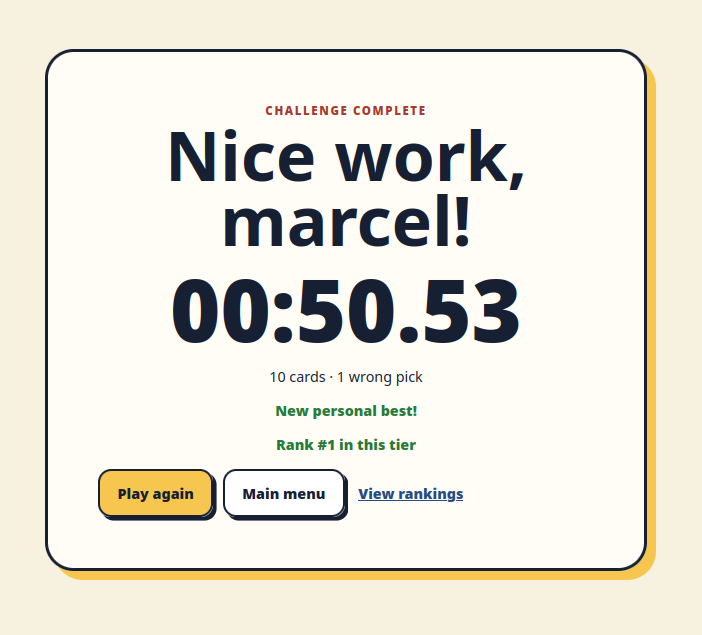
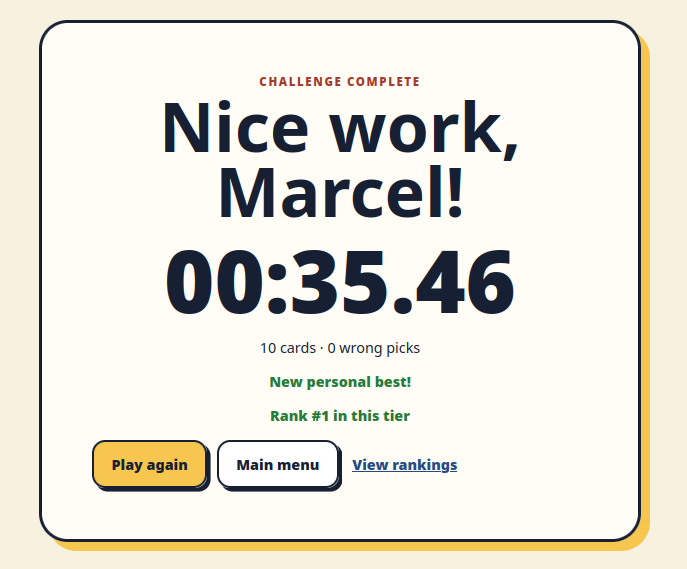
docs: updated game manual

Changed region(s): [[0.0306, 0.0299, 0.9476, 0.9859], [0.1223, 0.4183, 0.7642, 0.8664], [0.214, 0.1195, 0.7642, 0.3884]]

diff --git a/li_post.md b/li_post.md
@@ -1,35 +1,23 @@
-I built 𝗥𝗲𝗰𝗼𝗴𝗻𝗶𝘇𝗲𝗿 after playing a symbol-matching game with my children.
+𝐓𝐡𝐞 𝐟𝐢𝐫𝐬𝐭 𝐠𝐚𝐦𝐞 𝐦𝐲 𝐤𝐢𝐝𝐬 𝐚𝐩𝐩𝐫𝐨𝐯𝐞𝐝
 
-The rule takes ten seconds to explain:
+I like good turn-based offline games. Recently, the kids brought home one that I won't name here because my GitHub Pages–backed browser game is a shameless copy.
 
-𝘛𝘸𝘰 𝘤𝘢𝘳𝘥𝘴. 𝘌𝘪𝘨𝘩𝘵 𝘴𝘺𝘮𝘣𝘰𝘭𝘴 𝘦𝘢𝘤𝘩. 𝘌𝘹𝘢𝘤𝘵𝘭𝘺 𝘰𝘯𝘦 𝘮𝘢𝘵𝘤𝘩.
+If you want to play it (free and safe): https://marcelpetrick.github.io/recognizer/
+
+𝗧𝗵𝗲 𝗿𝘂𝗹𝗲𝘀 𝘁𝗮𝗸𝗲 𝘁𝗲𝗻 𝘀𝗲𝗰𝗼𝗻𝗱𝘀 𝘁𝗼 𝗲𝘅𝗽𝗹𝗮𝗶𝗻: 𝘛𝘸𝘰 𝘤𝘢𝘳𝘥𝘴. 𝘌𝘪𝘨𝘩𝘵 𝘴𝘺𝘮𝘣𝘰𝘭𝘴 𝘦𝘢𝘤𝘩. 𝘌𝘹𝘢𝘤𝘵𝘭𝘺 𝘰𝘯𝘦 𝘮𝘢𝘵𝘤𝘩. 𝗙𝗶𝗻𝗱 𝘁𝗵𝗲 𝗺𝗮𝘁𝗰𝗵 𝗳𝗮𝘀𝘁𝗲𝗿 𝘁𝗵𝗮𝗻 𝘆𝗼𝘂𝗿 𝗺𝗮𝘁𝗲𝘀.
+
+It is super simple, but pattern matching requires concentration, and you have to be quick. 𝗜𝘁'𝘀 𝗴𝗿𝗲𝗮𝘁 𝗳𝘂𝗻 𝗲𝘃𝗲𝗻 𝗮𝘀 𝗮 𝘀𝗶𝗻𝗴𝗹𝗲 𝗽𝗹𝗮𝘆𝗲𝗿 with a local high-score list.
 
 Building it raised three useful questions:
+* 𝗛𝗼𝘄 𝗱𝗼 𝘆𝗼𝘂 𝗴𝘂𝗮𝗿𝗮𝗻𝘁𝗲𝗲 that rule across all 𝟏,𝟓𝟗𝟔 possible card pairs?
+* 𝗛𝗼𝘄 𝗱𝗼 𝘆𝗼𝘂 𝘁𝘂𝗿𝗻 a shared game into a good single-player challenge?
+* 𝗛𝗼𝘄 𝗺𝘂𝗰𝗵 𝗶𝗻𝗳𝗿𝗮𝘀𝘁𝗿𝘂𝗰𝘁𝘂𝗿𝗲 does a small browser game actually need?
 
-• How do you guarantee that rule across all 1,596 possible card pairs?
+The mathematical part uses a finite projective plane. 𝗧𝗵𝗲 𝘁𝗲𝘀𝘁 𝘀𝘂𝗶𝘁𝗲 𝘃𝗲𝗿𝗶𝗳𝗶𝗲𝘀 𝗲𝘃𝗲𝗿𝘆 𝗽𝗼𝘀𝘀𝗶𝗯𝗹𝗲 𝗰𝗮𝗿𝗱 𝗽𝗮𝗶𝗿.
 
-• How do you turn a shared game into a good single-player challenge?
+The product stays deliberately small: 10, 20, or 50 cards, a timer, and local high scores. 𝘕𝘰 𝘢𝘤𝘤𝘰𝘶𝘯𝘵𝘴. 𝘕𝘰 𝘨𝘭𝘰𝘣𝘢𝘭 𝘳𝘢𝘯𝘬𝘪𝘯𝘨𝘴. 𝘕𝘰 𝘣𝘢𝘤𝘬𝘦𝘯𝘥.
 
-• How much infrastructure does a small browser game actually need?
+𝗔 𝘀𝗶𝗱𝗲 𝗻𝗼𝘁𝗲 𝗳𝗼𝗿 𝘁𝗵𝗼𝘀𝗲 𝗶𝗻𝘁𝗲𝗿𝗲𝘀𝘁𝗲𝗱 𝗶𝗻 𝘀𝗼𝗳𝘁𝘄𝗮𝗿𝗲 𝗱𝗲𝗹𝗶𝘃𝗲𝗿𝘆
+I also used the project as a compact, end-to-end SDLC example: written requirements, scope, and acceptance criteria; separated and testable domain logic; versioned storage with migration handling; unit, component, browser, mobile, and accessibility tests; formatting, linting, type checking, and build gates; locked dependencies with automated updates; and repeatable PWA deployment through GitHub Actions and GitHub Pages.
 
-The mathematical part uses a finite projective plane. The test suite verifies every possible card pair.
-
-The product stays deliberately small: 10, 20, or 50 cards, a timer, and local high scores. No accounts, global rankings, or backend.
-
-𝗔 𝘀𝗶𝗱𝗲 𝗻𝗼𝘁𝗲 𝗳𝗼𝗿 𝘁𝗵𝗼𝘀𝗲 𝗶𝗻𝘁𝗲𝗿𝗲𝘀𝘁𝗲𝗱 𝗶𝗻 𝘀𝗼𝗳𝘁𝘄𝗮𝗿𝗲 𝗱𝗲𝗹𝗶𝘃𝗲𝗿𝘆:
-
-I also used the project as a compact, end-to-end SDLC example: written requirements, scope and acceptance criteria; separated and testable domain logic; versioned storage with migration handling; unit, component, browser, mobile, and accessibility tests; formatting, linting, type and build gates; locked dependencies with automated updates; and repeatable PWA deployment through GitHub Actions and GitHub Pages.
-
-𝘕𝘰𝘵 𝘣𝘦𝘤𝘢𝘶𝘴𝘦 𝘢 𝘴𝘮𝘢𝘭𝘭 𝘨𝘢𝘮𝘦 𝘯𝘦𝘦𝘥𝘴 𝘦𝘯𝘵𝘦𝘳𝘱𝘳𝘪𝘴𝘦 𝘵𝘩𝘦𝘢𝘵𝘳𝘦.
-
-Its limited scope simply makes the whole chain visible:
-
-𝗥𝘂𝗹𝗲 → 𝗿𝗲𝗾𝘂𝗶𝗿𝗲𝗺𝗲𝗻𝘁 → 𝗶𝗺𝗽𝗹𝗲𝗺𝗲𝗻𝘁𝗮𝘁𝗶𝗼𝗻 → 𝗮𝘂𝘁𝗼𝗺𝗮𝘁𝗲𝗱 𝘃𝗲𝗿𝗶𝗳𝗶𝗰𝗮𝘁𝗶𝗼𝗻 → 𝗿𝗲𝗹𝗲𝗮𝘀𝗲
-
-Good technical leadership is often this practical: make constraints explicit, avoid features that do not earn their cost, and automate checks people should not have to remember.
-
-It was also nice to show my children how something from our table can become working—and properly delivered—software.
-
-https://marcelpetrick.github.io/recognizer/
-
-#SoftwareLeadership #SDLC #SoftwareQuality #EngineeringManagement #GameDevelopment
+𝐈𝐟 𝐲𝐨𝐮 𝐭𝐡𝐢𝐧𝐤 𝐲𝐨𝐮 𝐚𝐫𝐞 𝐪𝐮𝐢𝐜𝐤𝐞𝐫: 𝐩𝐥𝐚𝐲 𝐚𝐧𝐝 𝐩𝐨𝐬𝐭 𝐲𝐨𝐮𝐫 𝐬𝐜𝐨𝐫𝐞 🤗